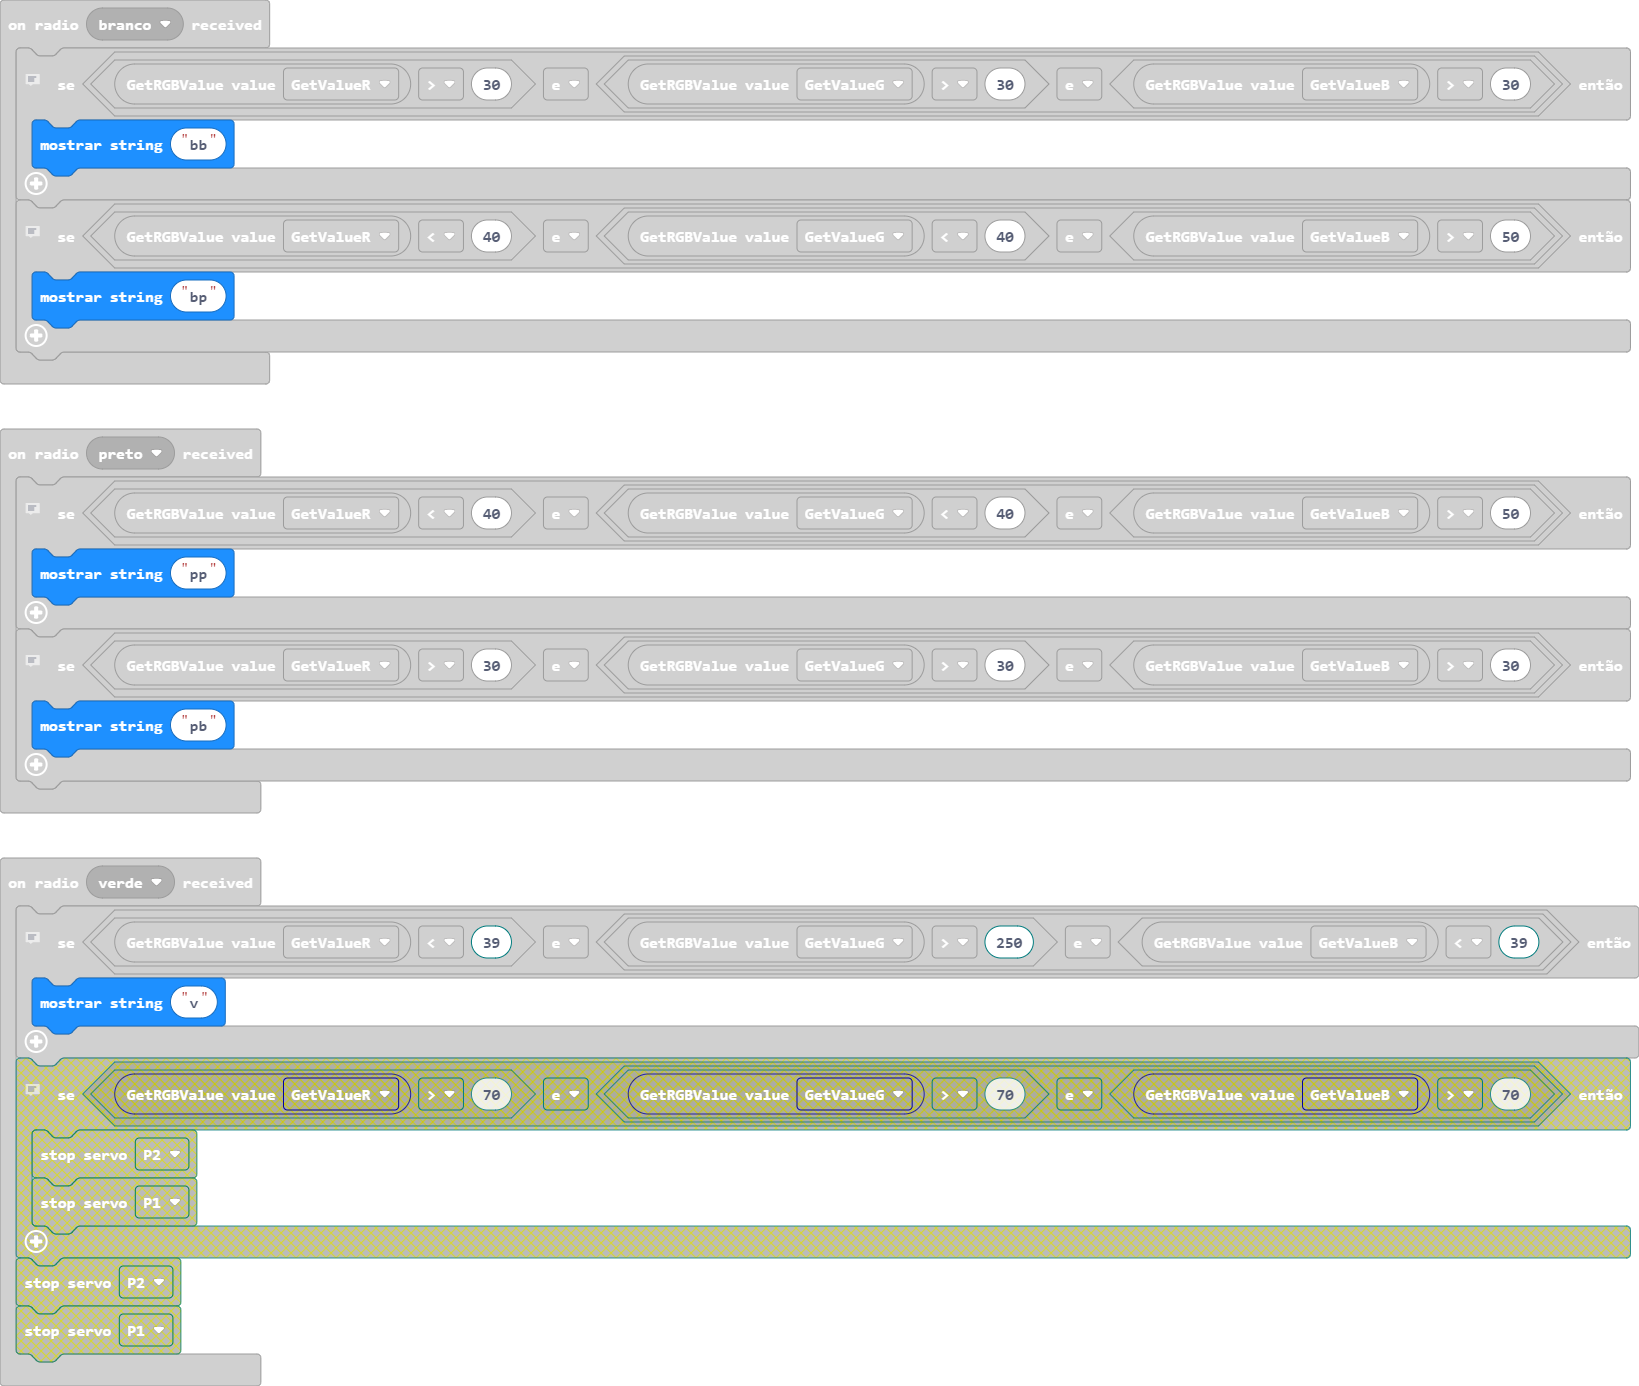
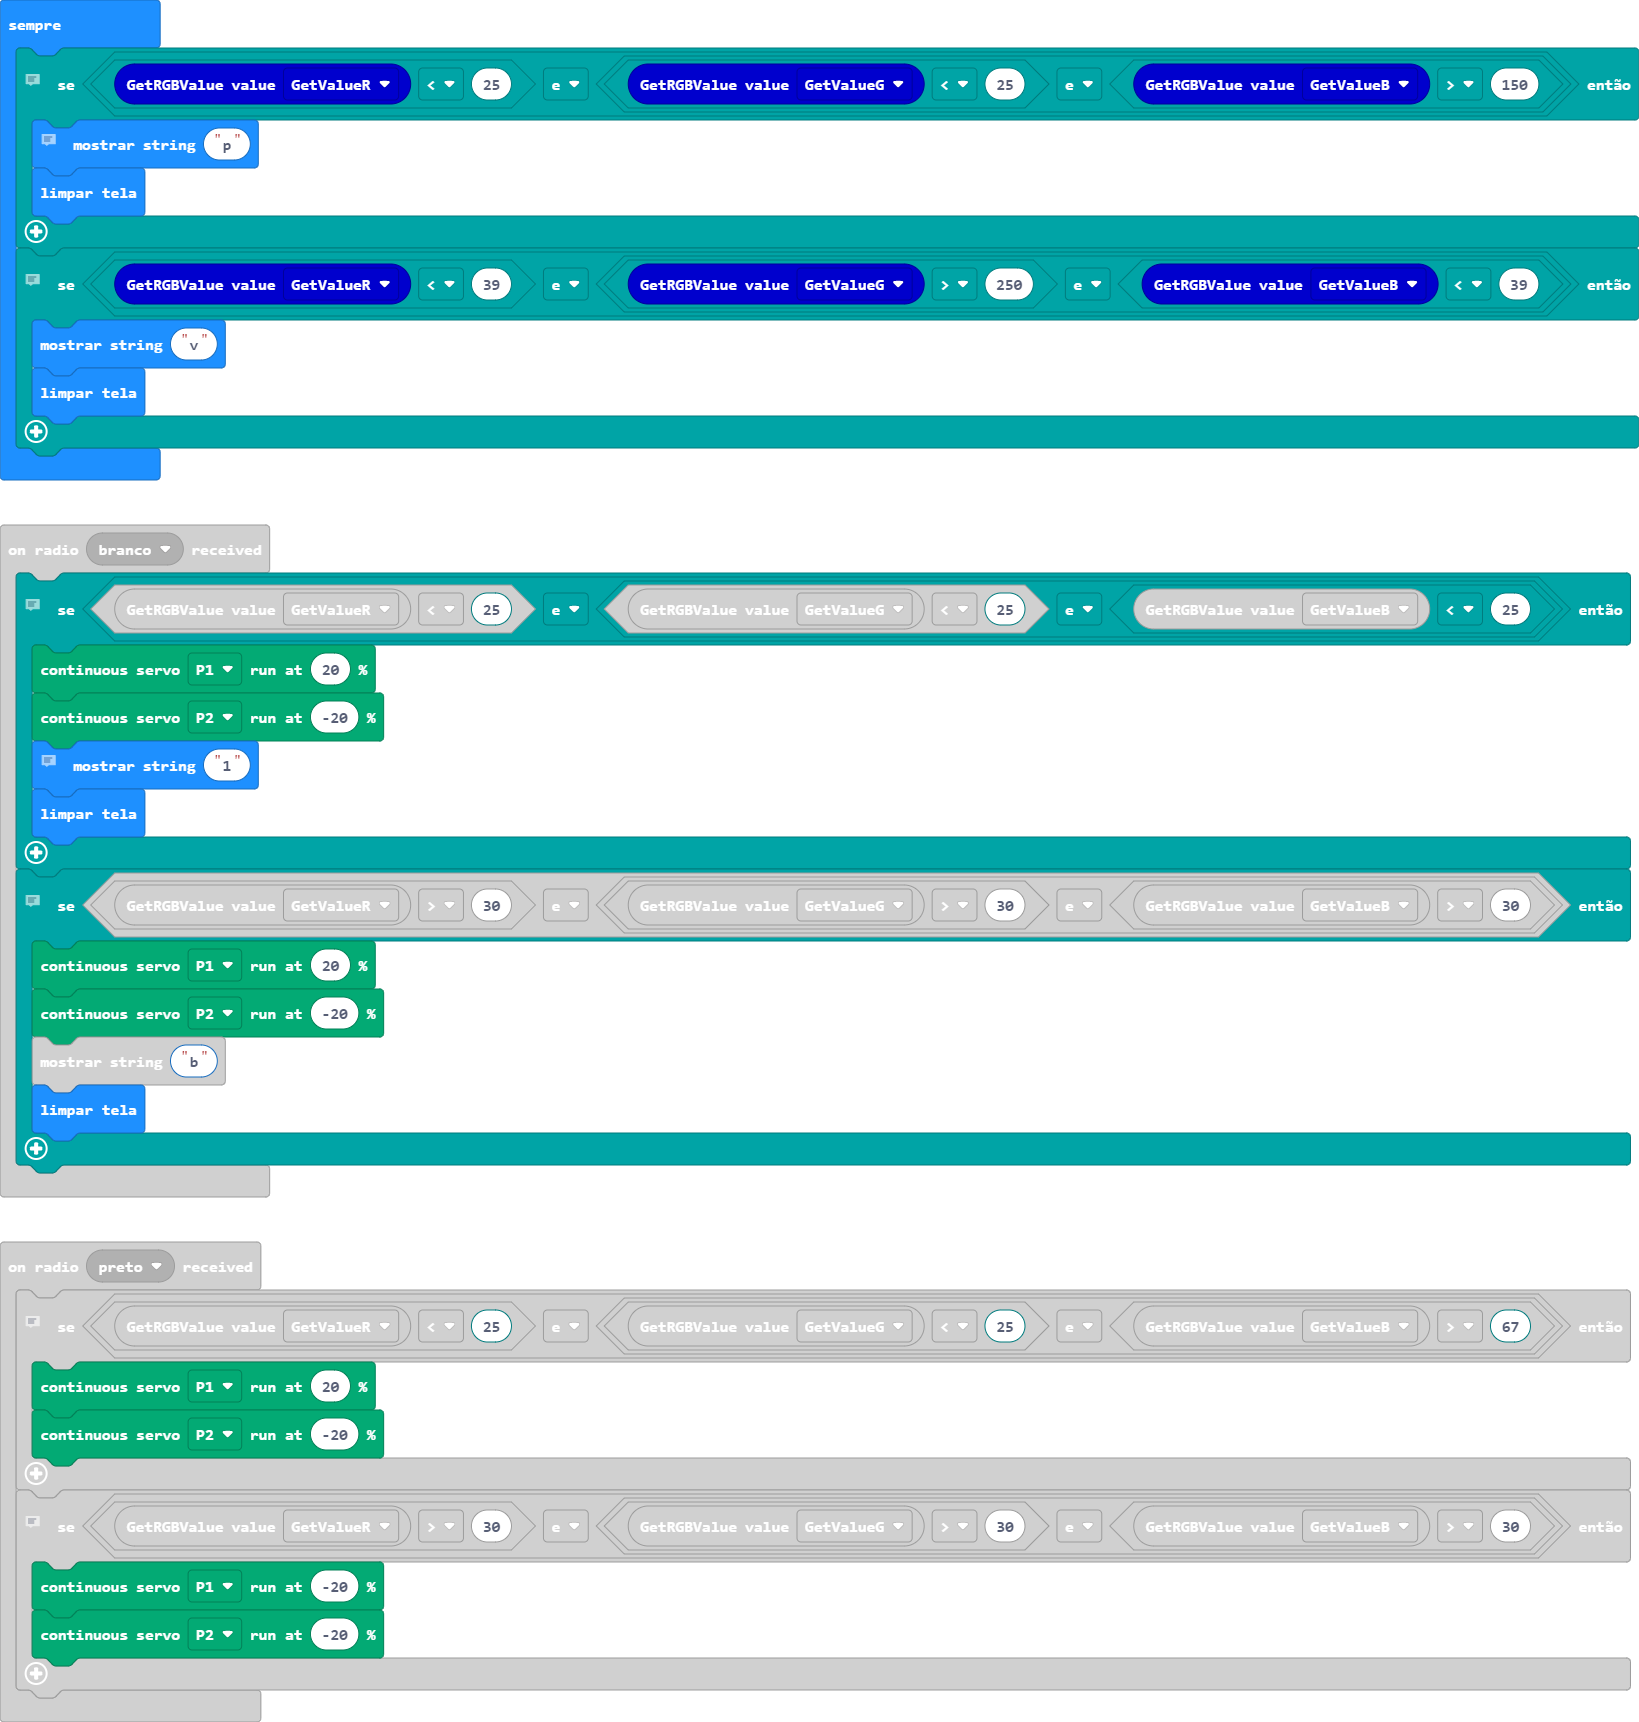
mais alterações. Provavelmente inúteis.

diff --git a/main.ts b/main.ts
@@ -5,30 +5,49 @@ enum RadioMessage {
     verde = 14709
 }
 radio.onReceivedMessage(RadioMessage.verde, function () {
-    // Preto e verde
-    if (Module_World_Color.GetRGBValue(Module_World_Color.enGetRGB.GetValueR) < 39 && (Module_World_Color.GetRGBValue(Module_World_Color.enGetRGB.GetValueG) > 250 && Module_World_Color.GetRGBValue(Module_World_Color.enGetRGB.GetValueB) < 39)) {
-        basic.showString("v")
-    }
+	
 })
 radio.onReceivedMessage(RadioMessage.branco, function () {
+    // Branco e preto
+    if (Module_World_Color.GetRGBValue(Module_World_Color.enGetRGB.GetValueR) < 25 && (Module_World_Color.GetRGBValue(Module_World_Color.enGetRGB.GetValueG) < 25 && Module_World_Color.GetRGBValue(Module_World_Color.enGetRGB.GetValueB) < 25)) {
+        servos.P1.run(20)
+        servos.P2.run(-20)
+        // 1 branco preto
+        basic.showString("1")
+        basic.clearScreen()
+    }
     // Branco e branco
     if (Module_World_Color.GetRGBValue(Module_World_Color.enGetRGB.GetValueR) > 30 && (Module_World_Color.GetRGBValue(Module_World_Color.enGetRGB.GetValueG) > 30 && Module_World_Color.GetRGBValue(Module_World_Color.enGetRGB.GetValueB) > 30)) {
-        basic.showString("bb")
-    }
-    // Branco e preto
-    if (Module_World_Color.GetRGBValue(Module_World_Color.enGetRGB.GetValueR) < 40 && (Module_World_Color.GetRGBValue(Module_World_Color.enGetRGB.GetValueG) < 40 && Module_World_Color.GetRGBValue(Module_World_Color.enGetRGB.GetValueB) > 50)) {
-        basic.showString("bp")
+        servos.P1.run(20)
+        servos.P2.run(-20)
+        basic.showString("b")
+        basic.clearScreen()
     }
 })
 radio.onReceivedMessage(RadioMessage.preto, function () {
     // Preto e preto
-    if (Module_World_Color.GetRGBValue(Module_World_Color.enGetRGB.GetValueR) < 40 && (Module_World_Color.GetRGBValue(Module_World_Color.enGetRGB.GetValueG) < 40 && Module_World_Color.GetRGBValue(Module_World_Color.enGetRGB.GetValueB) > 50)) {
-        basic.showString("pp")
+    if (Module_World_Color.GetRGBValue(Module_World_Color.enGetRGB.GetValueR) < 25 && (Module_World_Color.GetRGBValue(Module_World_Color.enGetRGB.GetValueG) < 25 && Module_World_Color.GetRGBValue(Module_World_Color.enGetRGB.GetValueB) > 67)) {
+        servos.P1.run(20)
+        servos.P2.run(-20)
     }
     // Preto e branco
     if (Module_World_Color.GetRGBValue(Module_World_Color.enGetRGB.GetValueR) > 30 && (Module_World_Color.GetRGBValue(Module_World_Color.enGetRGB.GetValueG) > 30 && Module_World_Color.GetRGBValue(Module_World_Color.enGetRGB.GetValueB) > 30)) {
-        basic.showString("pb")
+        servos.P1.run(-20)
+        servos.P2.run(-20)
     }
 })
 radio.setGroup(5)
 basic.showNumber(3)
+basic.forever(function () {
+    // Branco e preto
+    if (Module_World_Color.GetRGBValue(Module_World_Color.enGetRGB.GetValueR) < 25 && (Module_World_Color.GetRGBValue(Module_World_Color.enGetRGB.GetValueG) < 25 && Module_World_Color.GetRGBValue(Module_World_Color.enGetRGB.GetValueB) > 150)) {
+        // 1 branco preto
+        basic.showString("p")
+        basic.clearScreen()
+    }
+    // Preto e verde
+    if (Module_World_Color.GetRGBValue(Module_World_Color.enGetRGB.GetValueR) < 39 && (Module_World_Color.GetRGBValue(Module_World_Color.enGetRGB.GetValueG) > 250 && Module_World_Color.GetRGBValue(Module_World_Color.enGetRGB.GetValueB) < 39)) {
+        basic.showString("v")
+        basic.clearScreen()
+    }
+})
